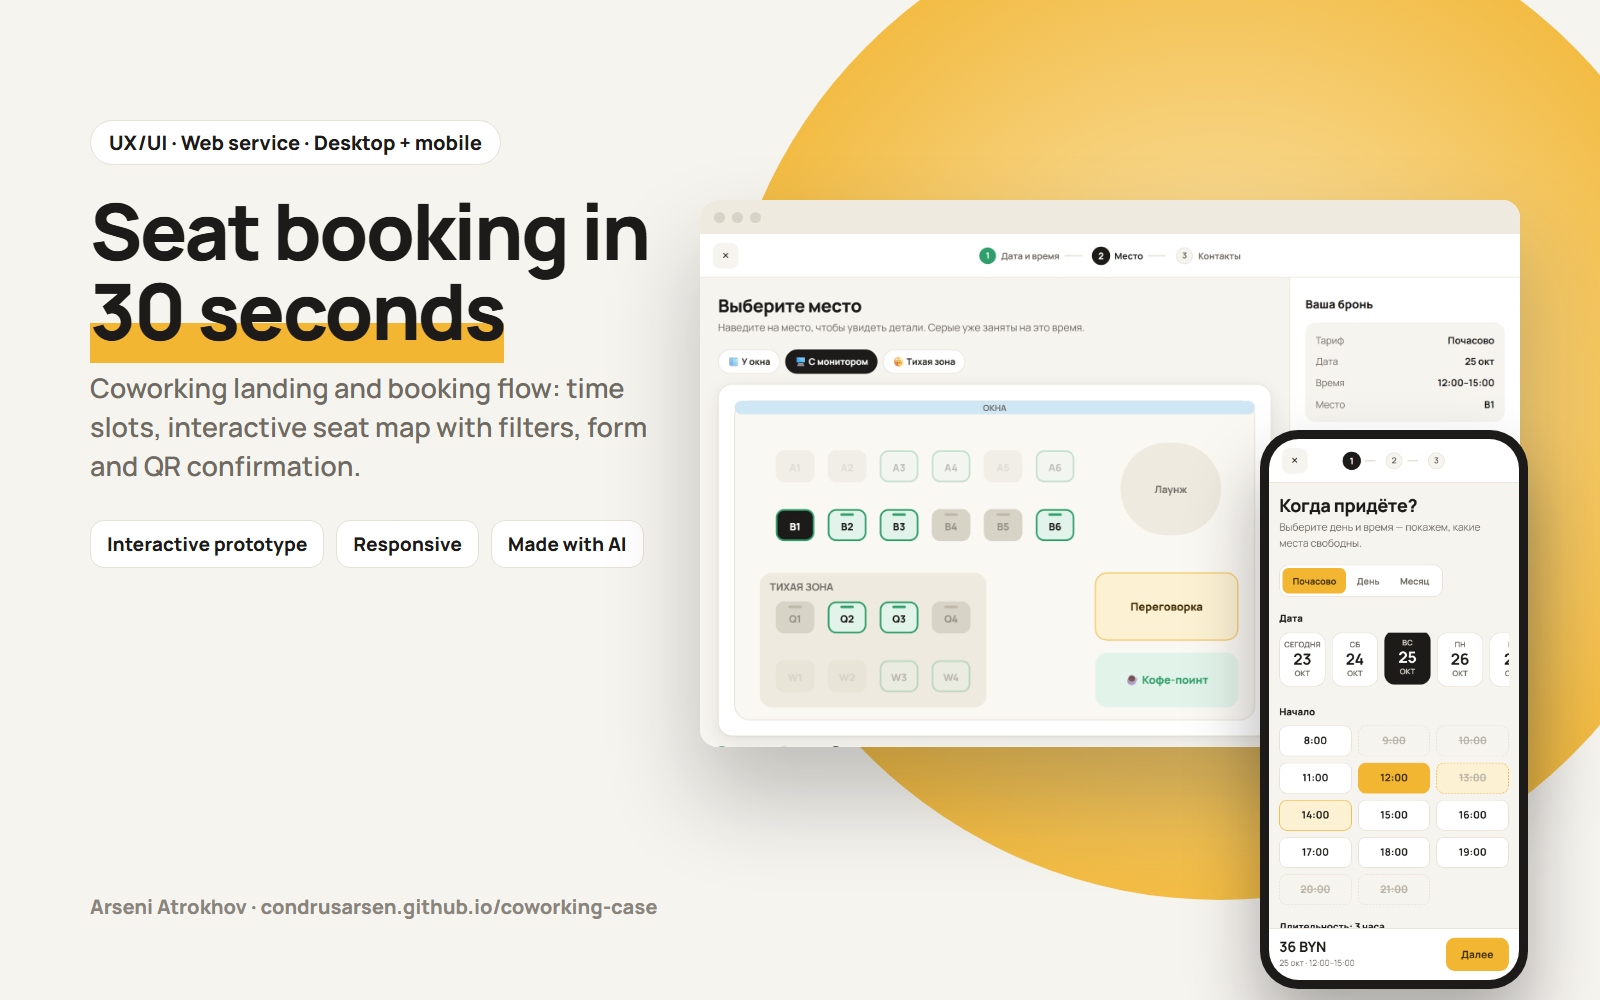
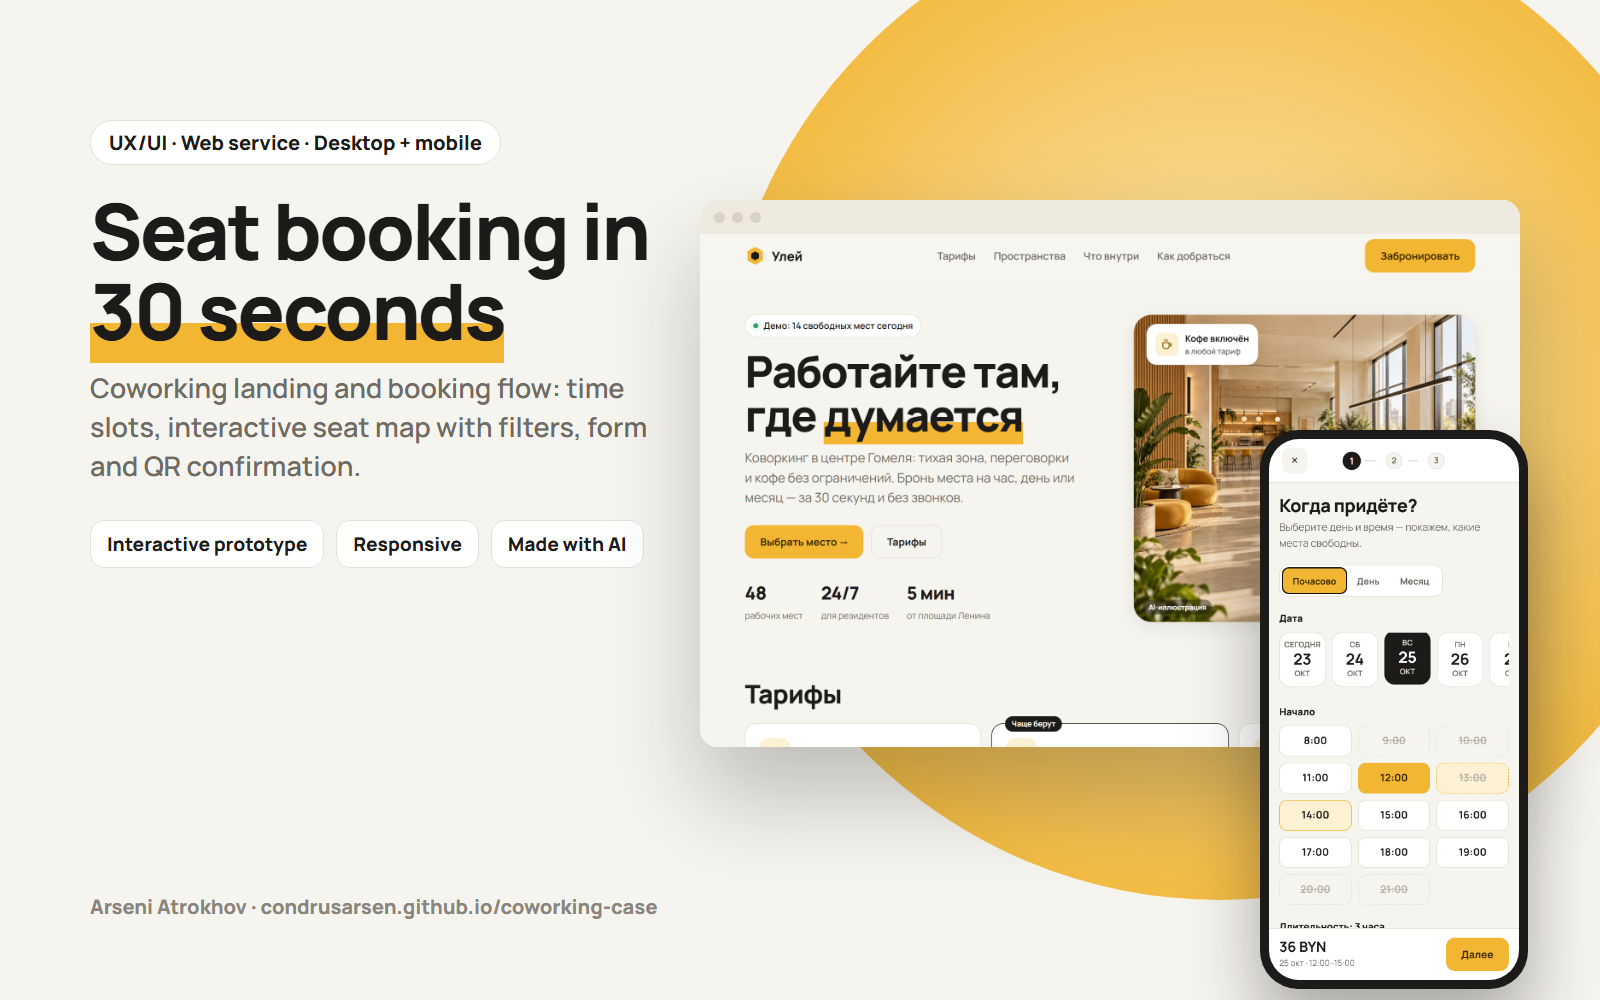
Interior artwork in hero and spaces section; escape name in ticket; drop pseudo review metric

diff --git a/app.html b/app.html
@@ -54,7 +54,8 @@ h1 em{font-style:normal;background:linear-gradient(transparent 62%,var(--brand) 
 .stats b{display:block;font-size:28px;font-weight:800;letter-spacing:-.02em}
 .stats span{color:var(--mute);font-size:14px}
 .hero-art{position:relative;aspect-ratio:1/0.9;border-radius:28px;background:linear-gradient(160deg,#fbe6b1,#f2b632);overflow:hidden;box-shadow:var(--shadow)}
-.hero-art > svg{position:absolute;inset:0;width:100%;height:100%}
+.hero-art > img{position:absolute;inset:0;width:100%;height:100%;object-fit:cover;object-position:60% 50%}
+.hero-art::after{content:"AI-иллюстрация";position:absolute;left:14px;bottom:12px;font-size:11px;font-weight:700;color:#fff;background:rgba(28,27,25,.45);border-radius:999px;padding:3px 9px}
 .float{position:absolute;background:var(--surface);border-radius:16px;box-shadow:var(--shadow);padding:12px 14px;font-weight:700;font-size:14px;display:flex;align-items:center;gap:10px;animation:float 5s ease-in-out infinite}
 .float .fi{width:36px;height:36px;border-radius:10px;background:var(--brand-soft);color:#8a5a00;display:grid;place-items:center;font-size:20px}
 .float .fi.ok{background:var(--green-soft);color:var(--green)}
@@ -73,6 +74,14 @@ h2{font-size:clamp(28px,4vw,40px);letter-spacing:-.02em;line-height:1.1;margin:0
 .plan .price small{font-size:14px;color:var(--mute);font-weight:600}
 .plan.pop{border-color:var(--ink);position:relative}
 .plan.pop::before{content:"Чаще берут";position:absolute;top:-12px;left:20px;background:var(--ink);color:#fff;font-size:12px;font-weight:700;border-radius:999px;padding:3px 10px}
+.spaces{display:grid;grid-template-columns:repeat(3,1fr);gap:16px}
+@media (max-width:900px){.spaces{grid-template-columns:1fr}}
+.spaces figure{margin:0;background:var(--surface);border:1px solid var(--line);border-radius:var(--r);overflow:hidden;transition:transform .25s var(--ease),box-shadow .25s}
+.spaces figure:hover{transform:translateY(-4px);box-shadow:var(--shadow)}
+.spaces img{width:100%;aspect-ratio:4/3;object-fit:cover;display:block}
+.spaces figcaption{padding:14px 16px 16px;display:grid;gap:2px}
+.spaces figcaption span{color:var(--mute);font-size:14px}
+.art-note{color:var(--mute);font-size:13px;margin:12px 0 0}
 .amen{display:grid;grid-template-columns:repeat(4,1fr);gap:12px}
 @media (max-width:900px){.amen{grid-template-columns:repeat(2,1fr)}}
 .amen div{background:var(--surface);border-radius:var(--r);padding:16px;font-weight:700;display:flex;gap:10px;align-items:center;border:1px solid var(--line)}
@@ -193,7 +202,7 @@ footer{padding:40px 0 60px;color:var(--mute);font-size:14px}
 <svg xmlns="http://www.w3.org/2000/svg" width="0" height="0" style="position:absolute;width:0;height:0;overflow:hidden" aria-hidden="true"><symbol id="i-chair" viewBox="0 0 24 24" fill="none" stroke="currentColor" stroke-width="1.8" stroke-linecap="round" stroke-linejoin="round"><path d="M7 11V5a2 2 0 0 1 2-2h6a2 2 0 0 1 2 2v6"/><path d="M5 11h14v3H5z"/><path d="M7 14v7M17 14v7M12 14v4"/></symbol><symbol id="i-monitor" viewBox="0 0 24 24" fill="none" stroke="currentColor" stroke-width="1.8" stroke-linecap="round" stroke-linejoin="round"><rect x="3" y="4" width="18" height="12" rx="2"/><path d="M8 20h8M12 16v4"/></symbol><symbol id="i-key" viewBox="0 0 24 24" fill="none" stroke="currentColor" stroke-width="1.8" stroke-linecap="round" stroke-linejoin="round"><circle cx="8" cy="15" r="4"/><path d="M11 12l9-9M17 6l3 3M15 8l2 2"/></symbol><symbol id="i-quiet" viewBox="0 0 24 24" fill="none" stroke="currentColor" stroke-width="1.8" stroke-linecap="round" stroke-linejoin="round"><path d="M11 5L6 9H3v6h3l5 4z"/><path d="M16 9l5 6M21 9l-5 6"/></symbol><symbol id="i-screen" viewBox="0 0 24 24" fill="none" stroke="currentColor" stroke-width="1.8" stroke-linecap="round" stroke-linejoin="round"><rect x="2" y="4" width="20" height="13" rx="2"/><path d="M8 21h8M10 9l4 2.5L10 14z"/></symbol><symbol id="i-wifi" viewBox="0 0 24 24" fill="none" stroke="currentColor" stroke-width="1.8" stroke-linecap="round" stroke-linejoin="round"><path d="M2 9a15 15 0 0 1 20 0M5 13a10 10 0 0 1 14 0M8.5 16.5a5 5 0 0 1 7 0"/><circle cx="12" cy="20" r="1"/></symbol><symbol id="i-printer" viewBox="0 0 24 24" fill="none" stroke="currentColor" stroke-width="1.8" stroke-linecap="round" stroke-linejoin="round"><path d="M7 8V3h10v5"/><rect x="3" y="8" width="18" height="9" rx="2"/><path d="M7 14h10v7H7z"/></symbol><symbol id="i-sofa" viewBox="0 0 24 24" fill="none" stroke="currentColor" stroke-width="1.8" stroke-linecap="round" stroke-linejoin="round"><path d="M4 11V8a2 2 0 0 1 2-2h12a2 2 0 0 1 2 2v3"/><path d="M2 12a2 2 0 0 1 4 0v2h12v-2a2 2 0 0 1 4 0v5H2z"/><path d="M5 17v3M19 17v3"/></symbol><symbol id="i-shower" viewBox="0 0 24 24" fill="none" stroke="currentColor" stroke-width="1.8" stroke-linecap="round" stroke-linejoin="round"><path d="M4 21V7a4 4 0 0 1 8 0"/><path d="M8 7h8"/><path d="M14 11v1M17 11v1M20 11v1M14 15v1M17 15v1M20 15v1M17 19v1"/></symbol><symbol id="i-lock" viewBox="0 0 24 24" fill="none" stroke="currentColor" stroke-width="1.8" stroke-linecap="round" stroke-linejoin="round"><rect x="4" y="10" width="16" height="11" rx="2"/><path d="M8 10V7a4 4 0 0 1 8 0v3M12 14v3"/></symbol><symbol id="i-bike" viewBox="0 0 24 24" fill="none" stroke="currentColor" stroke-width="1.8" stroke-linecap="round" stroke-linejoin="round"><circle cx="6" cy="16" r="4"/><circle cx="18" cy="16" r="4"/><path d="M6 16l4-8h5l3 8M10 8l2 8h-6M14 5h3"/></symbol><symbol id="i-window" viewBox="0 0 24 24" fill="none" stroke="currentColor" stroke-width="1.8" stroke-linecap="round" stroke-linejoin="round"><rect x="4" y="3" width="16" height="18" rx="2"/><path d="M12 3v18M4 12h16"/></symbol><symbol id="i-coffee" viewBox="0 0 24 24" fill="none" stroke="currentColor" stroke-width="1.8" stroke-linecap="round" stroke-linejoin="round"><path d="M4 9h12v6a5 5 0 0 1-5 5H9a5 5 0 0 1-5-5z"/><path d="M16 11h2a2 2 0 0 1 0 4h-2M8 3v3M12 3v3"/></symbol><symbol id="i-calendar" viewBox="0 0 24 24" fill="none" stroke="currentColor" stroke-width="1.8" stroke-linecap="round" stroke-linejoin="round"><rect x="3" y="5" width="18" height="16" rx="2"/><path d="M3 10h18M8 3v4M16 3v4"/></symbol><symbol id="i-check" viewBox="0 0 24 24" fill="none" stroke="currentColor" stroke-width="1.8" stroke-linecap="round" stroke-linejoin="round"><circle cx="12" cy="12" r="9"/><path d="M8 12.5l2.5 2.5L16 9.5"/></symbol></svg>
 <header id="hdr"><div class="wrap hdr">
   <div class="logo"><svg viewBox="0 0 32 32"><path d="M16 2l12 7v14l-12 7-12-7V9z" fill="#f2b632"/><path d="M16 9l6 3.5v7L16 23l-6-3.5v-7z" fill="#1c1b19"/></svg>Улей</div>
-  <nav><a href="#plans">Тарифы</a><a href="#amen">Что внутри</a><a href="#where">Как добраться</a></nav>
+  <nav><a href="#plans">Тарифы</a><a href="#spaces">Пространства</a><a href="#amen">Что внутри</a><a href="#where">Как добраться</a></nav>
   <button class="btn brand" data-open>Забронировать</button>
 </div></header>
 
@@ -204,18 +213,10 @@ footer{padding:40px 0 60px;color:var(--mute);font-size:14px}
       <h1>Работайте там, где <em>думается</em></h1>
       <p class="lead">Коворкинг в центре Гомеля: тихая зона, переговорки и кофе без ограничений. Бронь места на час, день или месяц — за 30 секунд и без звонков.</p>
       <div class="hero-cta"><button class="btn brand" data-open>Выбрать место →</button><a class="btn ghost" href="#plans">Тарифы</a></div>
-      <div class="stats"><div><b>48</b><span>рабочих мест</span></div><div><b>24/7</b><span>для резидентов</span></div><div><b>4,9★</b><span>320 отзывов</span></div></div>
+      <div class="stats"><div><b>48</b><span>рабочих мест</span></div><div><b>24/7</b><span>для резидентов</span></div><div><b>5 мин</b><span>от площади Ленина</span></div></div>
     </div>
-    <div class="hero-art" aria-hidden="true">
-      <svg viewBox="0 0 400 360">
-        <rect x="40" y="200" width="320" height="18" rx="9" fill="#1c1b19" opacity=".9"/>
-        <rect x="70" y="218" width="10" height="90" fill="#1c1b19" opacity=".8"/><rect x="320" y="218" width="10" height="90" fill="#1c1b19" opacity=".8"/>
-        <rect x="120" y="120" width="130" height="82" rx="10" fill="#fff"/><rect x="128" y="128" width="114" height="64" rx="6" fill="#1c1b19"/>
-        <rect x="138" y="140" width="60" height="6" rx="3" fill="#f2b632"/><rect x="138" y="152" width="84" height="6" rx="3" fill="#fff" opacity=".5"/><rect x="138" y="164" width="40" height="6" rx="3" fill="#fff" opacity=".5"/>
-        <circle cx="300" cy="186" r="14" fill="#fff"/><rect x="292" y="168" width="16" height="6" rx="3" fill="#fff" opacity=".7"/>
-        <path d="M60 200c0-40 10-70 30-80" stroke="#2f9e6b" stroke-width="6" fill="none" stroke-linecap="round"/><ellipse cx="88" cy="118" rx="18" ry="9" fill="#2f9e6b"/><ellipse cx="70" cy="140" rx="16" ry="8" fill="#2f9e6b" transform="rotate(-30 70 140)"/>
-        <rect x="48" y="188" width="28" height="14" rx="4" fill="#fff"/>
-      </svg>
+    <div class="hero-art">
+      <img src="art/hero.jpg" alt="Светлый зал коворкинга с рабочими местами у окон (AI-иллюстрация)" fetchpriority="high">
       <div class="float" style="left:20px;top:22px"><span class="fi"><svg class="ico" aria-hidden="true"><use href="#i-coffee"/></svg></span><div>Кофе включён<small>в любой тариф</small></div></div>
       <div class="float" style="right:20px;bottom:24px;animation-delay:-2s"><span class="fi ok"><svg class="ico" aria-hidden="true"><use href="#i-check"/></svg></span><div>Место A7 свободно<small>у окна · монитор</small></div></div>
     </div>
@@ -228,6 +229,16 @@ footer{padding:40px 0 60px;color:var(--mute);font-size:14px}
       <div class="plan pop"><div class="ic"><svg class="ico" aria-hidden="true"><use href="#i-monitor"/></svg></div><h3>Рабочий день</h3><p>Место на день с 8:00 до 22:00, кофе и печать до 20 листов.</p><div class="price">35 BYN <small>/ день</small></div><button class="btn" data-open data-plan="day">Выбрать</button></div>
       <div class="plan"><div class="ic"><svg class="ico" aria-hidden="true"><use href="#i-key"/></svg></div><h3>Резидент</h3><p>Своё закреплённое место, локер и доступ 24/7.</p><div class="price">390 BYN <small>/ месяц</small></div><button class="btn ghost" data-open data-plan="month">Выбрать</button></div>
     </div>
+  </section>
+
+  <section class="section" id="spaces">
+    <h2>Пространства</h2>
+    <div class="spaces">
+      <figure><img src="art/room-1.jpg" alt="Тихий зал" loading="lazy"><figcaption><b>Тихий зал</b><span>Без звонков и разговоров, 16 мест, мониторы 27″</span></figcaption></figure>
+      <figure><img src="art/room-2.jpg" alt="Переговорная" loading="lazy"><figcaption><b>Переговорные</b><span>3 комнаты на 4–8 человек, экран и видеосвязь</span></figcaption></figure>
+      <figure><img src="art/room-3.jpg" alt="Лаунж" loading="lazy"><figcaption><b>Лаунж</b><span>Кофе, диваны и место для неформальных встреч</span></figcaption></figure>
+    </div>
+    <p class="art-note">Изображения — AI-иллюстрации концепта, не фотографии реального места.</p>
   </section>
 
   <section class="section" id="amen">
@@ -496,7 +507,8 @@ $("#dBack").addEventListener("click", () => goStep(S.step - 1));
 function confirmBooking() {
   const code = "HV-" + (1000 + Math.floor(rnd(S.date.getDate() * 97 + (S.start || 0) * 13 + S.seat.charCodeAt(0) + +S.seat.slice(1)) * 9000));
   S.code = code;
-  $("#ticketInfo").innerHTML = `<div class="k">Бронь</div><div class="v">${code}</div><div class="k">Когда</div><div class="v">${S.date.getDate()} ${MONTHS[S.date.getMonth()]}, ${S.plan === "hour" ? `${S.start}:00–${S.start + S.dur}:00` : S.plan === "day" ? "весь день" : "30 дней"}</div><div class="k">Место</div><div class="v">${S.seat} · ${$("#name").value.trim()}</div>`;
+  $("#ticketInfo").innerHTML = `<div class="k">Бронь</div><div class="v">${code}</div><div class="k">Когда</div><div class="v">${S.date.getDate()} ${MONTHS[S.date.getMonth()]}, ${S.plan === "hour" ? `${S.start}:00–${S.start + S.dur}:00` : S.plan === "day" ? "весь день" : "30 дней"}</div><div class="k">Место</div><div class="v" id="ticketWho"></div>`;
+  $("#ticketWho").textContent = `${S.seat} · ${$("#name").value.trim()}`;
   // Decorative QR-like pattern seeded from the booking code (not a scannable QR).
   let q = ""; const fin = (x, y) => `<rect x="${x}" y="${y}" width="7" height="7" fill="#1c1b19"/><rect x="${x + 1}" y="${y + 1}" width="5" height="5" fill="#fff"/><rect x="${x + 2}" y="${y + 2}" width="3" height="3" fill="#1c1b19"/>`;
   for (let y = 0; y < 25; y++) for (let x = 0; x < 25; x++) { const corner = (x < 8 && y < 8) || (x > 16 && y < 8) || (x < 8 && y > 16); if (!corner && rnd(code.charCodeAt(3) * 97 + x * 31 + y * 17) > .5) q += `<rect x="${x}" y="${y}" width="1" height="1" fill="#1c1b19"/>`; }
